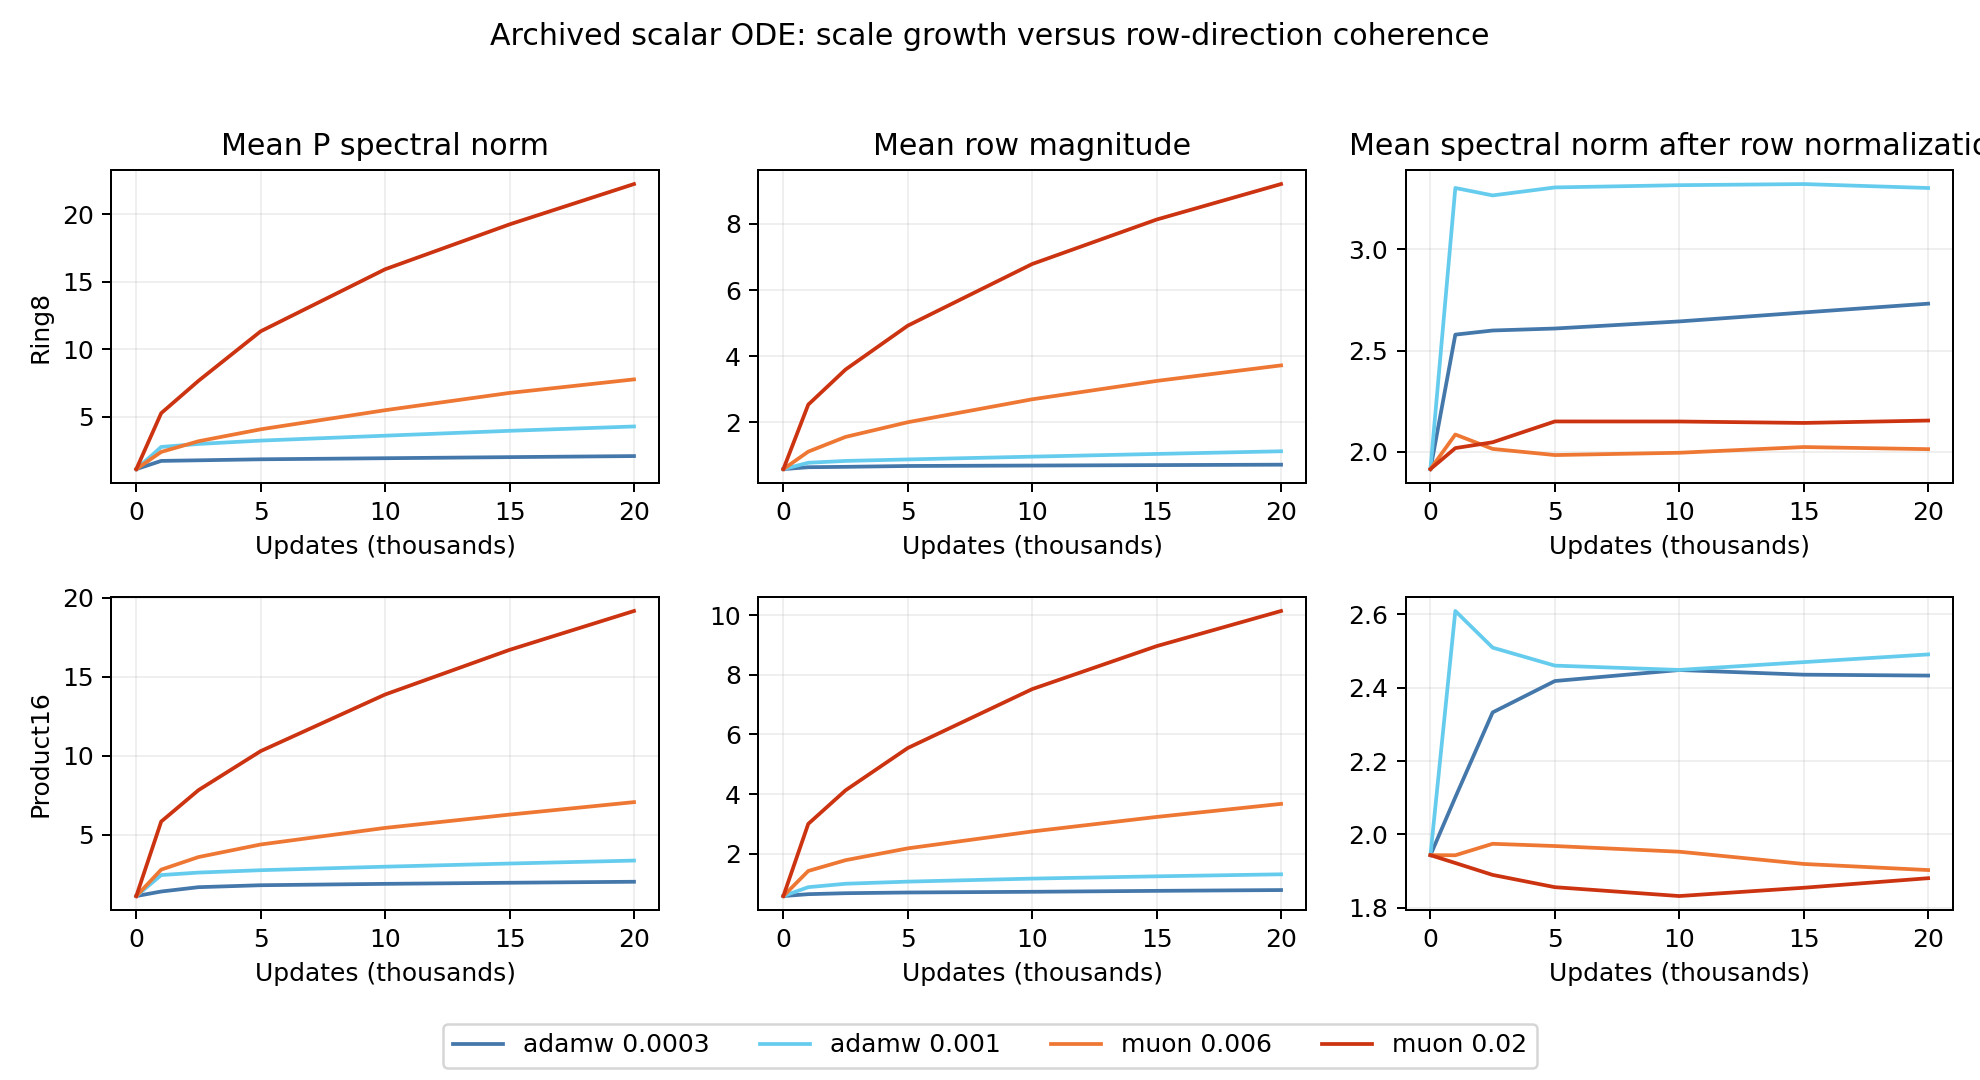
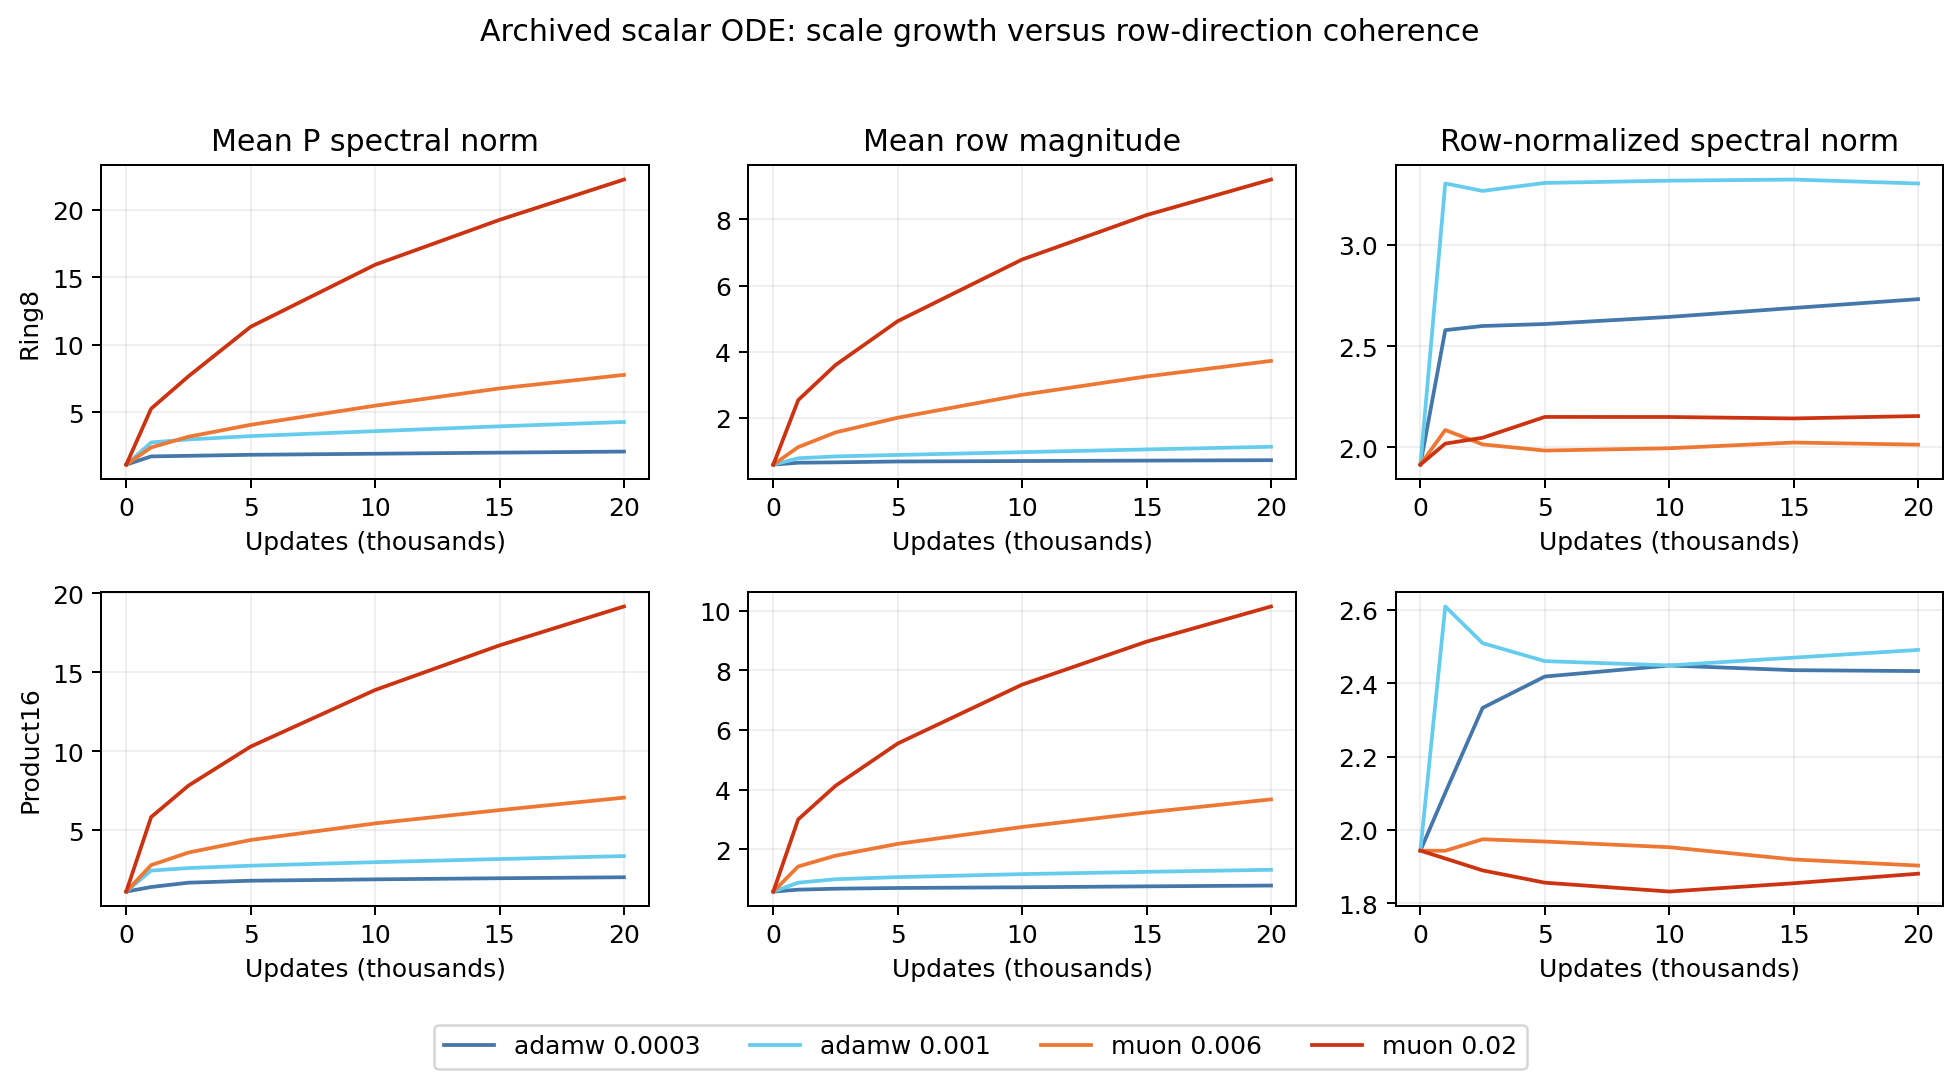
research: prepare replay ledger and identify the controller rank confound

diff --git a/studies/muon_pd_20261102/autoresearch_20261103/analyze.py b/studies/muon_pd_20261102/autoresearch_20261103/analyze.py
@@ -1,0 +1,48 @@
+"""Publish completed registered trials, full controls, and validation-only decisions."""
+import argparse,csv,json
+from pathlib import Path
+p=argparse.ArgumentParser();p.add_argument('receipts',nargs='+');p.add_argument('--out',required=True);p.add_argument('--ledger',required=True);p.add_argument('--runtime-commit',required=True);a=p.parse_args()
+root=Path(__file__).resolve().parents[3]
+out=Path(a.out);out.mkdir(parents=True,exist_ok=True)
+receipts=[json.loads(Path(f).read_text()) for f in a.receipts]
+rows=[r for d in receipts for r in d['endpoints']]
+grid=json.loads(Path(__file__).with_name('grid.json').read_text())
+assert len(rows)==len(grid['cells']) and {r['id'] for r in rows}=={r['id'] for r in grid['cells']}
+for r in rows:
+    cell=next(c for c in grid['cells'] if c['id']==r['id']);assert all(r[k]==v for k,v in cell.items())
+
+def save(name,records):
+    keys=list(dict.fromkeys(k for row in records for k in row))
+    with (out/name).open('w',newline='') as f:
+        w=csv.DictWriter(f,fieldnames=keys);w.writeheader();w.writerows(records)
+
+old=[]
+for file in ['docs/research-muon-pd-2026-11-02/wave2/analysis/endpoints.csv','docs/research-muon-pd-2026-11-02/wave2/results/endpoints.csv']:
+    old+=list(csv.DictReader((root/file).open()))
+for r in old:
+    r['replayed_field_mse']=float(r['replayed_field_mse']);r['numpy_test_sw2']=float(r['numpy_test_sw2']);r['projection_lr']=float(r['projection_lr'])
+decisions=[]
+for r in rows:
+    if r['role']=='anchor':
+        assert r['anchor_field_abs_error']<2e-6 and r['anchor_sample_max_abs_error']<2e-5
+        decision='anchor';parent=None;improvement=None;sampling_change=None
+    else:
+        parent=next(x for x in old if x['dataset']==r['dataset'] and x['family']=='vector_pd_k2' and x['optimizer']==r['optimizer'] and x['projection_lr']==r['projection_lr'])
+        improvement=1-r['replayed_field_mse']/parent['replayed_field_mse']
+        sampling_change=r['numpy_test_sw2']/parent['numpy_test_sw2']-1
+        decision='keep' if improvement>=.05 else 'discard'
+    ordinary=min(x['replayed_field_mse'] for x in old if x['dataset']==r['dataset'] and x['family'].startswith('swiglu'))
+    decisions.append(dict(cell=r['id'],dataset=r['dataset'],family=r['family'],optimizer=r['optimizer'],lr=r['projection_lr'],status=decision,
+        field_mse=r['replayed_field_mse'],test_sw2=r['numpy_test_sw2'],parent=parent['id'] if parent else None,
+        field_relative_improvement=improvement,test_sw2_relative_change=sampling_change,better_field_than_strongest_ordinary=r['replayed_field_mse']<ordinary))
+save('endpoints.csv',rows);save('decisions.csv',decisions)
+for name in ['curves','updates']:save(name+'.csv',[r for d in receipts for r in d[name]])
+verification=dict(endpoints=len(rows),max_field_replay_error=max(r['field_abs_error'] for r in rows),max_sw2_error=max(r['sw2_abs_error'] for r in rows),max_generated_error=max(r['generated_replay_max_abs_error'] for r in rows),max_anchor_field_error=max(r.get('anchor_field_abs_error',0) for r in rows),max_anchor_generated_error=max(r.get('anchor_sample_max_abs_error',0) for r in rows))
+(out/'verification.json').write_text(json.dumps(verification,indent=2)+'\n')
+ledger=Path(a.ledger);ledger.parent.mkdir(parents=True,exist_ok=True)
+assert not ledger.exists(),'Do not overwrite the append-only cycle ledger'
+with ledger.open('x') as f:
+    f.write('commit\tvalidation_mse\ttest_sw2\tstatus\tdescription\n')
+    for row in decisions:f.write(f"{a.runtime_commit}\t{row['field_mse']:.10g}\t{row['test_sw2']:.10g}\t{row['status']}\t{row['cell']}\n")
+for row in decisions:print(json.dumps(row))
+print(json.dumps(verification))

diff --git a/studies/muon_pd_20261102/autoresearch_20261103/gauge_case.py b/studies/muon_pd_20261102/autoresearch_20261103/gauge_case.py
@@ -1,0 +1,37 @@
+"""Frozen affine-PD case: change P spectra while preserving the computed map."""
+import argparse,importlib,sys,json
+from pathlib import Path
+import torch
+p=argparse.ArgumentParser();p.add_argument('--source',required=True);p.add_argument('--checkpoint',required=True);p.add_argument('--save',required=True);a=p.parse_args()
+source=Path(a.source);sys.path.insert(0,str(source/'autoresearch_20261103'))
+from trial import base,build_model
+base.verify_sources();torch.set_num_threads(1)
+file=Path(a.checkpoint);folder=file.parents[1];cfg=json.loads((folder/'config.json').read_text());cell=cfg['cell'];assert cell['family']=='pd_mlp_affine'
+manifest=json.loads((Path(cfg['data_root'])/'manifest.json').read_text());spec=manifest['datasets'][cell['dataset']]
+checkpoint=torch.load(file,map_location='cpu',weights_only=False)
+assert checkpoint['config_sha256']==base.digest(folder/'config.json')
+model=build_model(spec['dim'],cell['family']);base.train.restore_model(model,checkpoint);model=model.double().eval()
+fixed=base.train.fixed_eval_data(Path(cfg['data_root'])/cell['dataset'],base.train.load_distribution(spec),spec['dim'],0,torch.device('cpu'),4096,256,'test')
+x,t=fixed['x'][:64].double(),fixed['t'][:64].double()
+inputs={};hooks=[]
+for name,layer in model.ode_layers():
+    hooks.append(layer.register_forward_pre_hook(lambda m,ins,key=name:inputs.__setitem__(key,ins[0].detach().clone())))
+with torch.no_grad():before=model(x,t).clone()
+for hook in hooks:hook.remove()
+records=[]
+for name,layer in model.ode_layers():
+    h=inputs[name];c=torch.logspace(-1,1,64,dtype=torch.double)
+    p0=layer.proj.weight.detach().clone();d0=layer.step_size(h).detach().clone();a0=p0*d0[0][None,:]
+    j0=torch.autograd.functional.jacobian(lambda u:layer(u[None])[0],h[0])
+    with torch.no_grad():
+        layer.proj.weight.div_(c[None,:])
+        layer.t_func[-1].weight.mul_(c[:,None]);layer.t_func[-1].bias.mul_(c).add_(30*(c-1))
+    p1=layer.proj.weight.detach();d1=layer.step_size(h).detach();a1=p1*d1[0][None,:]
+    j1=torch.autograd.functional.jacobian(lambda u:layer(u[None])[0],h[0])
+    records.append(dict(layer=name,initial_p_sigma=float(torch.linalg.svdvals(p0)[0]),changed_p_sigma=float(torch.linalg.svdvals(p1)[0]),conditional_generator_max_error=float((a0-a1).abs().max()),full_layer_jacobian_max_error=float((j0-j1).abs().max())))
+with torch.no_grad():after=model(x,t)
+error=float((before-after).abs().max())
+assert error<1e-8 and all(r['conditional_generator_max_error']<1e-9 and r['full_layer_jacobian_max_error']<1e-8 for r in records)
+result=dict(passed=True,checkpoint_step=checkpoint['step'],checkpoint_sha256=base.digest(file),model=cell['id'],calculation_dtype='float64',full_prediction_max_error=error,layers=records,
+    interpretation='Frozen reparameterization identity; not retraining, not a quality improvement, and not generally realizable by the bounded-sigmoid parent.')
+base.dump(a.save,result);print(json.dumps(result))

diff --git a/studies/muon_pd_20261102/audit_completed.py b/studies/muon_pd_20261102/audit_completed.py
@@ -36,6 +36,8 @@ def main():
     p.add_argument('--variant-module')
     p.add_argument('--experiment-id')
     p.add_argument('--anchor-output')
+    p.add_argument('--only-complete', action='store_true')
+    p.add_argument('--expected-count', type=int)
     args = p.parse_args()
     source = Path(args.source).resolve()
     sys.path.insert(0, str(source))
@@ -51,16 +53,18 @@ def main():
         builder = build_model
         experiment = 'muon_pd_wave2_20261102'
     if args.variant_module:
-        import importlib
+        from importlib import import_module
         entry = source/args.variant_module
         sys.path.insert(0, str(entry.parent))
-        builder = importlib.import_module(entry.stem).build_model
+        builder = import_module(entry.stem).build_model
     if args.experiment_id:
         experiment = args.experiment_id
     torch.set_num_threads(1)
     device = torch.device(args.device)
     rows, curves, updates = [], [], []
     for folder in sorted((Path(args.output_root)/experiment).glob('*/*/seed000')):
+        if args.only_complete and not (folder/'ADAPTER_COMPLETE').exists():
+            continue
         cfg = json.loads((folder/'config.json').read_text())
         cell = cfg['cell']
         metrics = [json.loads(x) for x in (folder/'metrics.jsonl').read_text().splitlines()]
@@ -153,7 +157,9 @@ def main():
                               sw2_abs_error=sample_error, replay_max_abs_error=replay_error)), flush=True)
         # Release GPU-resident optimizer state loaded from the checkpoint too.
         del checkpoint, model, fixed
-    result = dict(source=str(source), source_manifest_sha256=sha(source/'source_provenance.json'),
+    if args.expected_count is not None:
+        assert len(rows) == args.expected_count, (len(rows), args.expected_count)
+    result = dict(partial=args.only_complete, source=str(source), source_manifest_sha256=sha(source/'source_provenance.json'),
                   torch=torch.__version__, device=args.device, passed=True,
                   endpoints=rows, curves=curves, updates=updates)
     path = Path(args.save)

diff --git a/studies/muon_pd_20261102/autoresearch_20261103/render_spectrum.py b/studies/muon_pd_20261102/autoresearch_20261103/render_spectrum.py
@@ -14,8 +14,8 @@ for axes,ds in zip(axs,['gmm_ring8_2d','rotated_product_bimodal_16d']):
    means=[statistics.mean(float(r[key]) for r in sub if int(r['step'])==s) for s in steps]
    ax.plot([s/1000 for s in steps],means,color=color,label=f'{method} {lr}');ax.set_xlabel('Updates (thousands)');ax.grid(alpha=.2)
  axes[0].set_ylabel('Ring8' if ds=='gmm_ring8_2d' else 'Product16')
-for ax,title in zip(axs[0],['Mean P spectral norm','Mean row magnitude','Mean spectral norm after row normalization']):ax.set_title(title)
+for ax,title in zip(axs[0],['Mean P spectral norm','Mean row magnitude','Row-normalized spectral norm']):ax.set_title(title)
 handles,labels=axs[0,0].get_legend_handles_labels();fig.legend(handles,labels,loc='lower center',ncol=4)
 fig.suptitle('Archived scalar ODE: scale growth versus row-direction coherence')
 fig.tight_layout(rect=(0,.06,1,.96))
-for ext in ['png','pdf']:fig.savefig(root/f'row-decomposition.{ext}',dpi=180)
+for ext in ['png','pdf']:fig.savefig(root/f'row-decomposition.{ext}',dpi=180,bbox_inches='tight')

diff --git a/docs/autoresearch/professor-20261103/cycle1.md b/docs/autoresearch/professor-20261103/cycle1.md
@@ -35,3 +35,19 @@ These conditional spectra are local probes, not global stability certificates.
 If useful directions appear, isolate their cause before combining. If both fail,
 consider direct input-derived D as a distinct construction, then the already planned
 optimizer-by-order comparison. No family is accepted merely for increasing rank.
+
+## Interpretation refinement before outcomes
+
+Although the affine controller has almost the same parameter count, its64x64
+matrix can become full rank. The parent logit Jacobian W2 diag(SiLU') W1 has
+rank at most32 at every input. The affine initialization matches that rank32
+tangent, but later training can increase its rank. Therefore this is a controller
+budget/parameterization comparison, not an isolated proof that removing SiLU helps.
+A successful affine arm requires a factorized-linear control with the same32-wide
+bottleneck before attributing the gain to nonlinearity versus rank.
+
+An exact local matching construction for that prospective control is
+W1'=W1,b1'=b1,W2'=W2 diag(SiLU'(b1)),
+b2'=b2+W2[SiLU(b1)-SiLU'(b1)*b1], with hidden activation replaced by identity.
+This preserves the logit value and Jacobian at h=0, parameter count and rank cap;
+it does not match the parent at all h. Keep all current results regardless.

diff --git a/reports/report2/evidence-index.md b/reports/report2/evidence-index.md
@@ -22,3 +22,7 @@ The archived area inventories in [scope.json](scope.json) and the current
 [attempt inventory](attempt-inventory.json) serve different purposes: the former
 tracks post-Report1 Git changes, the latter covers the preserved documentation.
 Neither is a count of independent training runs.
+
+## Professor-guided autoresearch,3November
+
+[Current logic chain](../../docs/autoresearch/professor-20261103/logic-chain.md), [new spectral decomposition](../../docs/autoresearch/professor-20261103/spectrum/findings.md), and [cycle1 registration](../../docs/autoresearch/professor-20261103/cycle1.md). Row-magnitude growth dominates the observed raw P growth more than normalized row-coherence growth; this remains descriptive. New PD controller/output-transform trials are running. This index changes; the submitted report PDFs do not.

diff --git a/docs/autoresearch/professor-20261103/logic-chain.md b/docs/autoresearch/professor-20261103/logic-chain.md
@@ -43,6 +43,8 @@ nonlinear MLP (32 fewer parameters per solve). Matching its value and Jacobian
 at the zero hidden anchor avoids an arbitrary constant initialization shift;
 it does not make the initial functions identical at all hidden inputs.
 
+The affine controller can also grow to rank64 while the original logit Jacobian is capped at32. It reallocates controller capacity; a factorized-linear follow-up is needed to separate rank from nonlinear features. This confound was recorded before reading candidate endpoints.
+
 The affine output keeps the identical MLP tensors but removes sigmoid saturation
 and the(.2,1) constraint. It changes those two coupled properties together, so a
 positive outcome would need a follow-up that separates them. The earlier failed

diff --git a/docs/autoresearch/professor-20261103/notes.md b/docs/autoresearch/professor-20261103/notes.md
@@ -19,3 +19,8 @@ row/column magnitudes. P=diag(r)R gives ||P||2<=max(r)||R||2; this is an inequal
 not an exact multiplicative attribution. Checkpoint/config hashes are retained.
 This asks whether our P growth resembles magnitude drift discussed by Muown, without
 introducing Muown or any new optimizer trick. CPU-only readout; training is unchanged.
+
+Before candidate outcomes, identified a controller-rank confound: full affine can
+learn rank64; original32-hidden MLP logit Jacobian has rank<=32. Record this explicitly,
+then distinguish using a factorized-linear control if affine suggests a lead.
+Do not label a win as evidence that nonlinear gate features are unnecessary.
